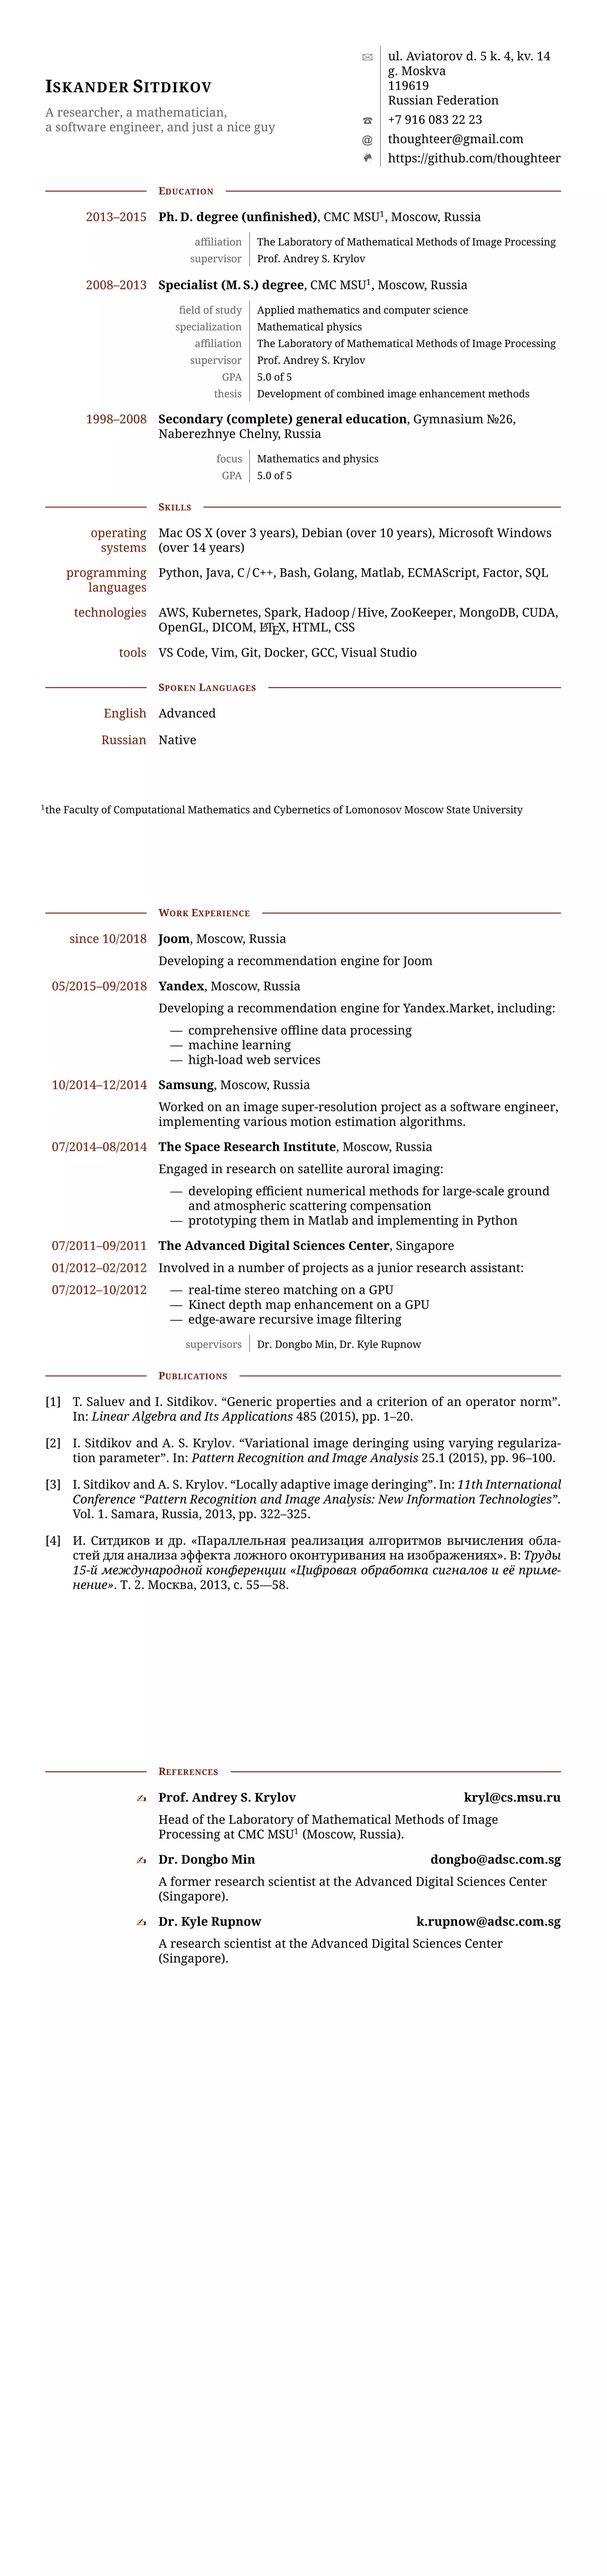
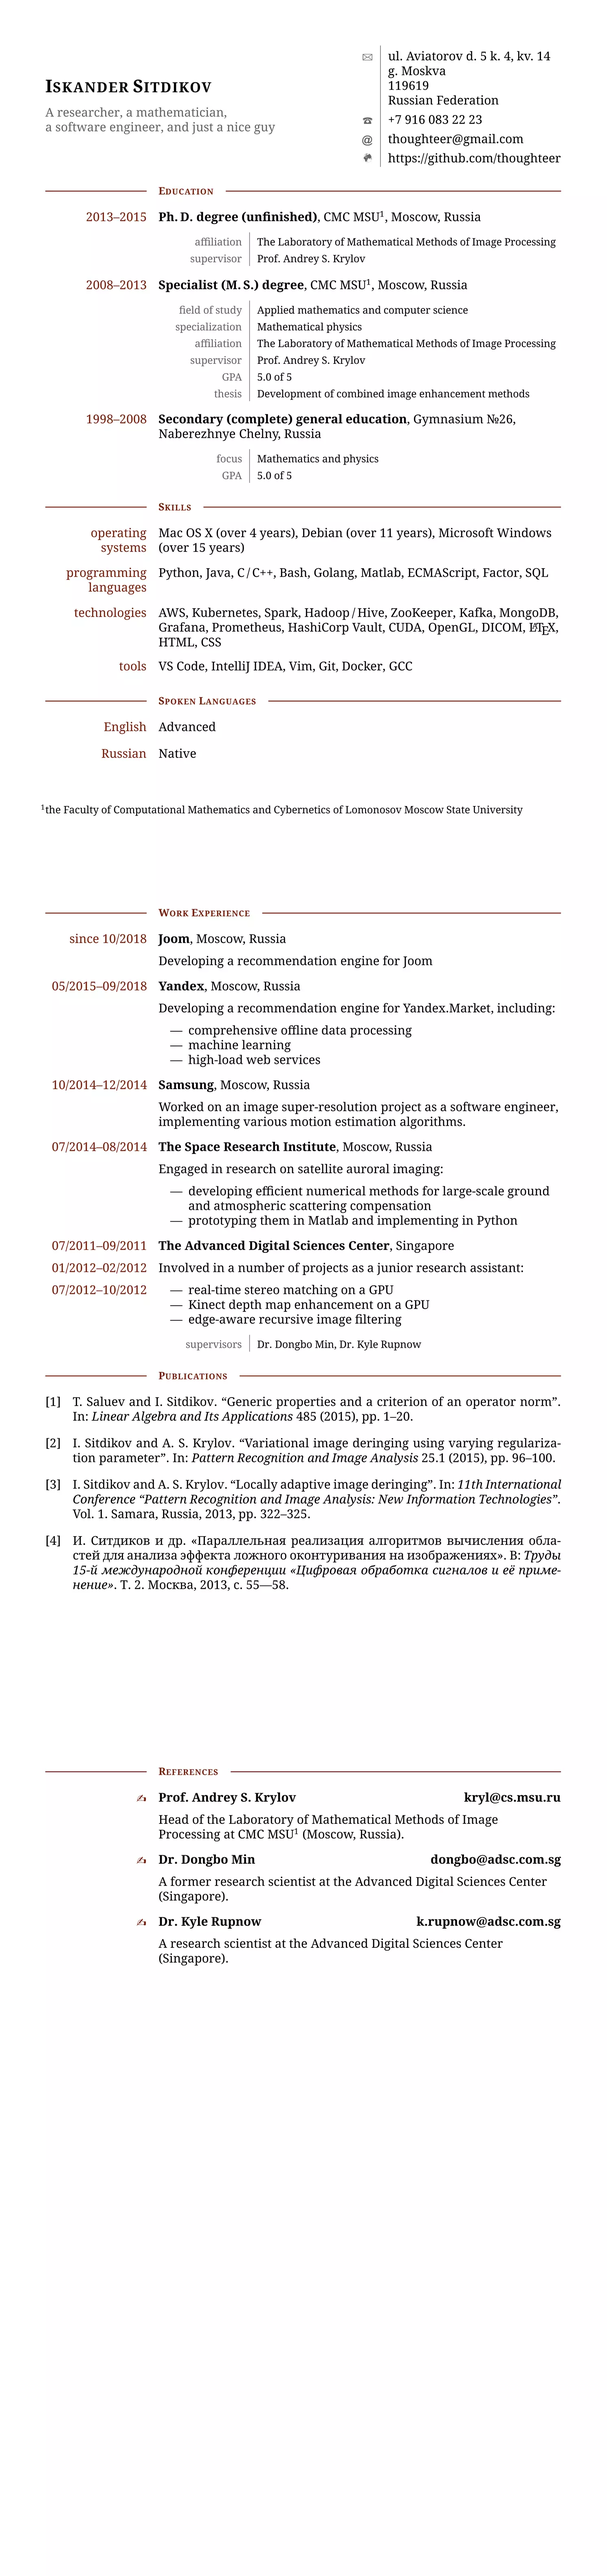
Add new technologies

Changed region(s): [[0.1852, 0.2184, 0.494, 0.312], [0.5248, 0.2496, 0.6792, 0.2808], [0.7718, 0.2184, 0.8953, 0.2496]]

diff --git a/cv.tex b/cv.tex
@@ -148,10 +148,10 @@
             Python, Java, C\,/\,C++, Bash, Golang, Matlab, ECMAScript, Factor, SQL
         }
         \cventry{\cvenglish{technologies}\cvrussian{технологии}}{
-            AWS, Kubernetes, Spark, Hadoop\,/\,Hive, ZooKeeper, MongoDB, CUDA, OpenGL, DICOM, \LaTeX, HTML, CSS
+            AWS, Kubernetes, Spark, Hadoop\,/\,Hive, ZooKeeper, Kafka, MongoDB, Grafana, Prometheus, HashiCorp Vault, CUDA, OpenGL, DICOM, \LaTeX, HTML, CSS
         }
         \cventry{\cvenglish{tools}\cvrussian{инструменты}}{
-            VS Code, Vim, Git, Docker, GCC, Visual Studio
+            VS Code, IntelliJ IDEA, Vim, Git, Docker, GCC
         }
     \end{cvsection}
     \begin{cvsection}{\cvenglish{Spoken Languages}\cvrussian{Языки}}
